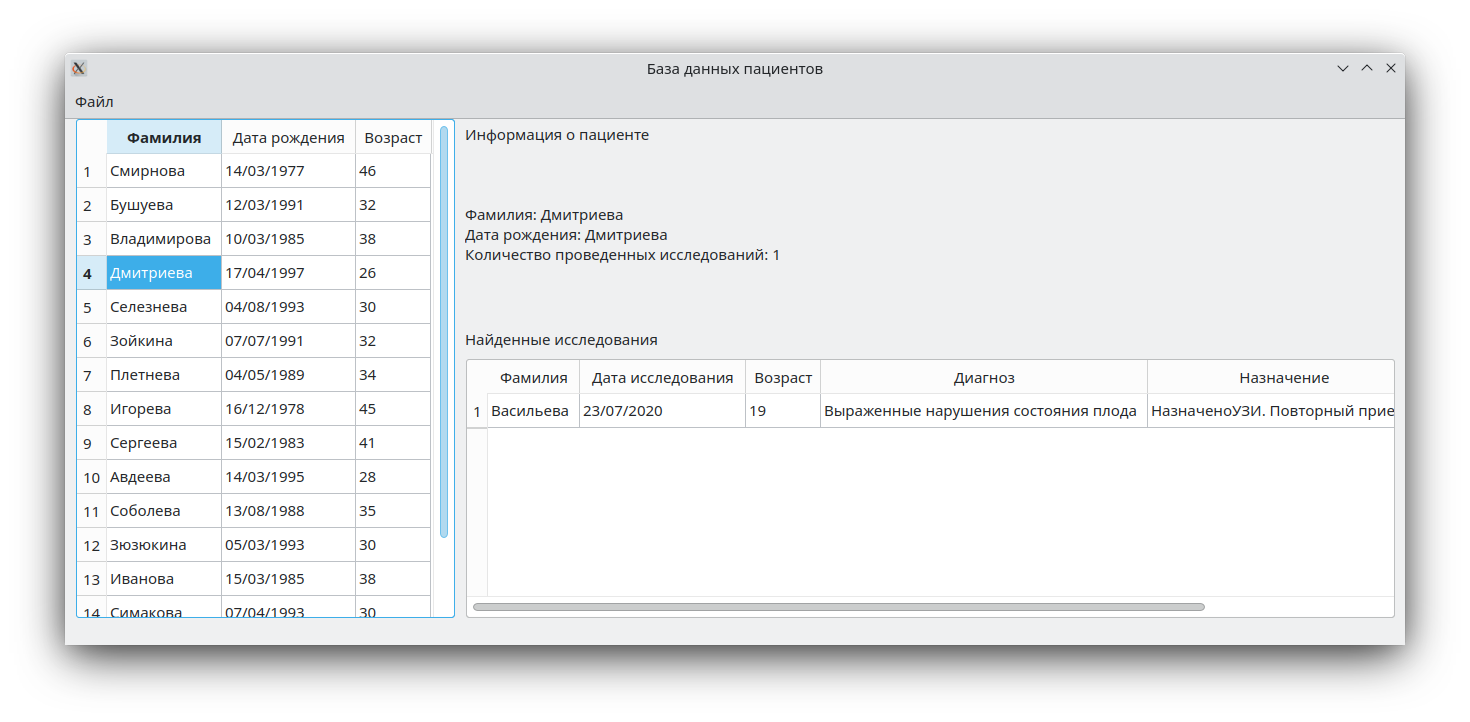
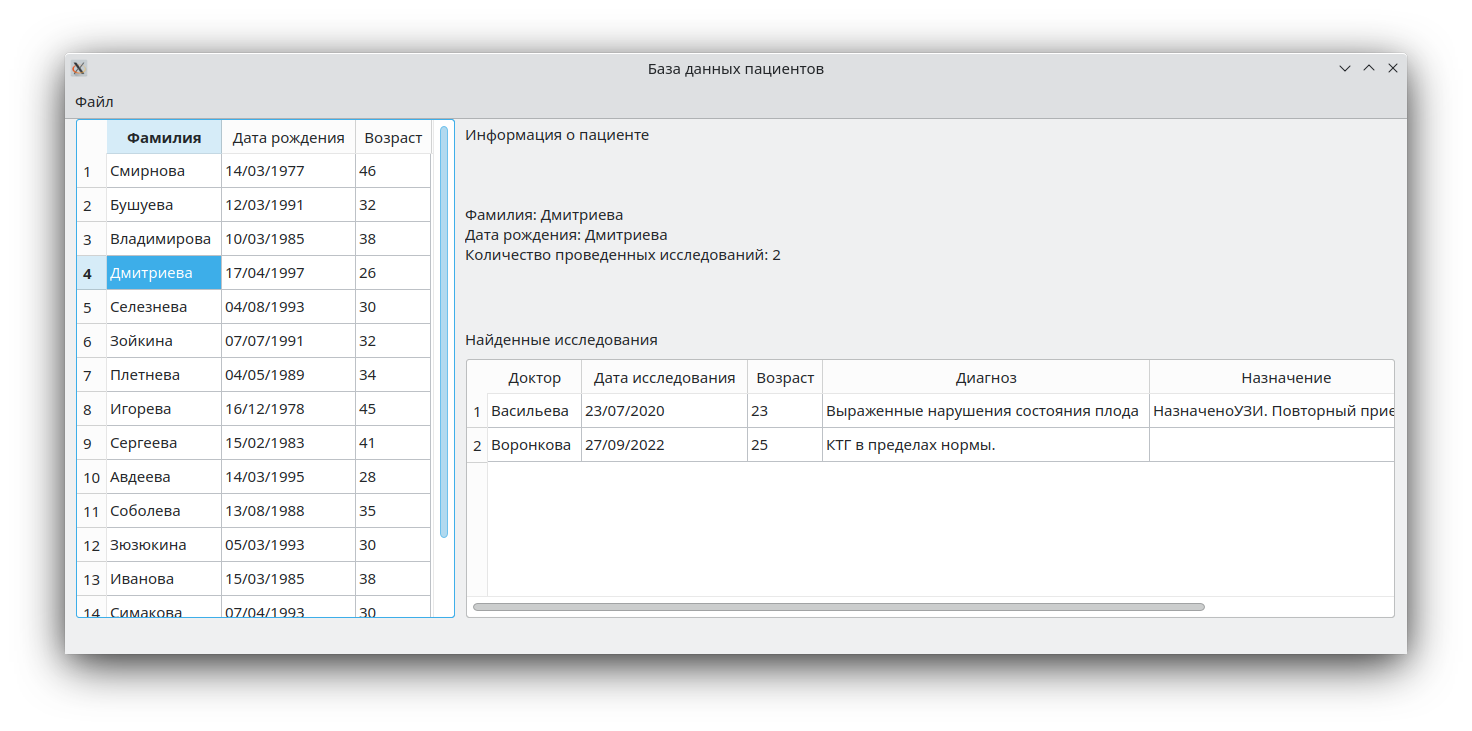
Рефакторинг

diff --git a/PatientsDB/researchtablemodel.cpp b/PatientsDB/researchtablemodel.cpp
@@ -15,7 +15,7 @@ QVariant ResearchTableModel::headerData(int section, Qt::Orientation orientation
 {
     if (role == Qt::DisplayRole && orientation == Qt::Horizontal) {
         switch (section) {
-        case DOCTOR_COLUMN: return "Фамилия";
+        case DOCTOR_COLUMN: return "Доктор";
         case RESEARCH_COLUMN:  return "Дата исследования";
         case AGE_COLUMN: return "Возраст";
         case DIAGNOSIS_COLUMN: return "Диагноз";
